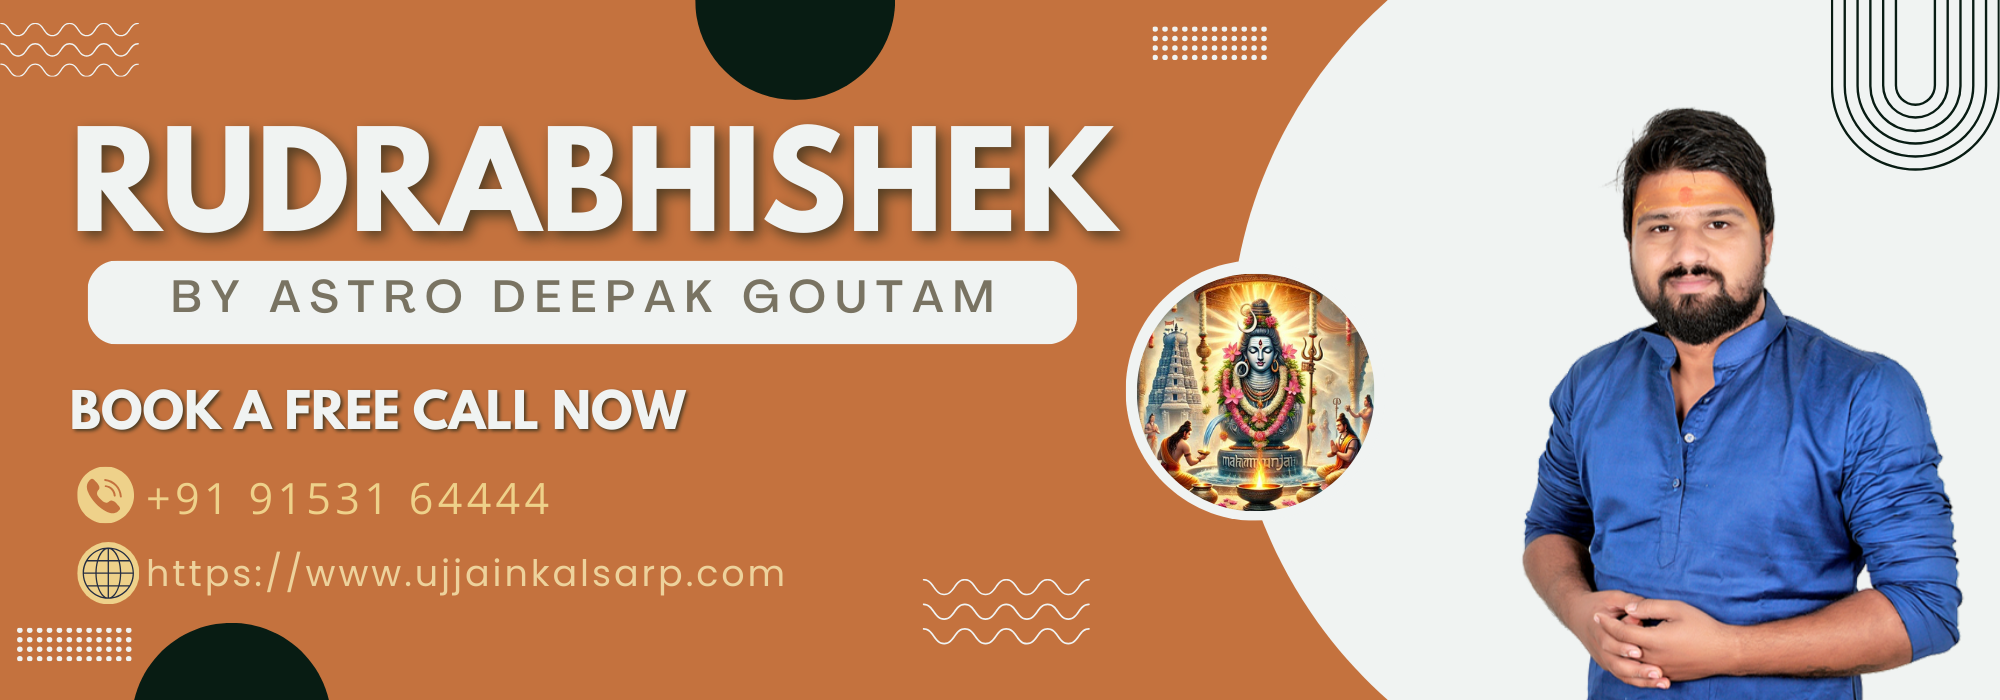
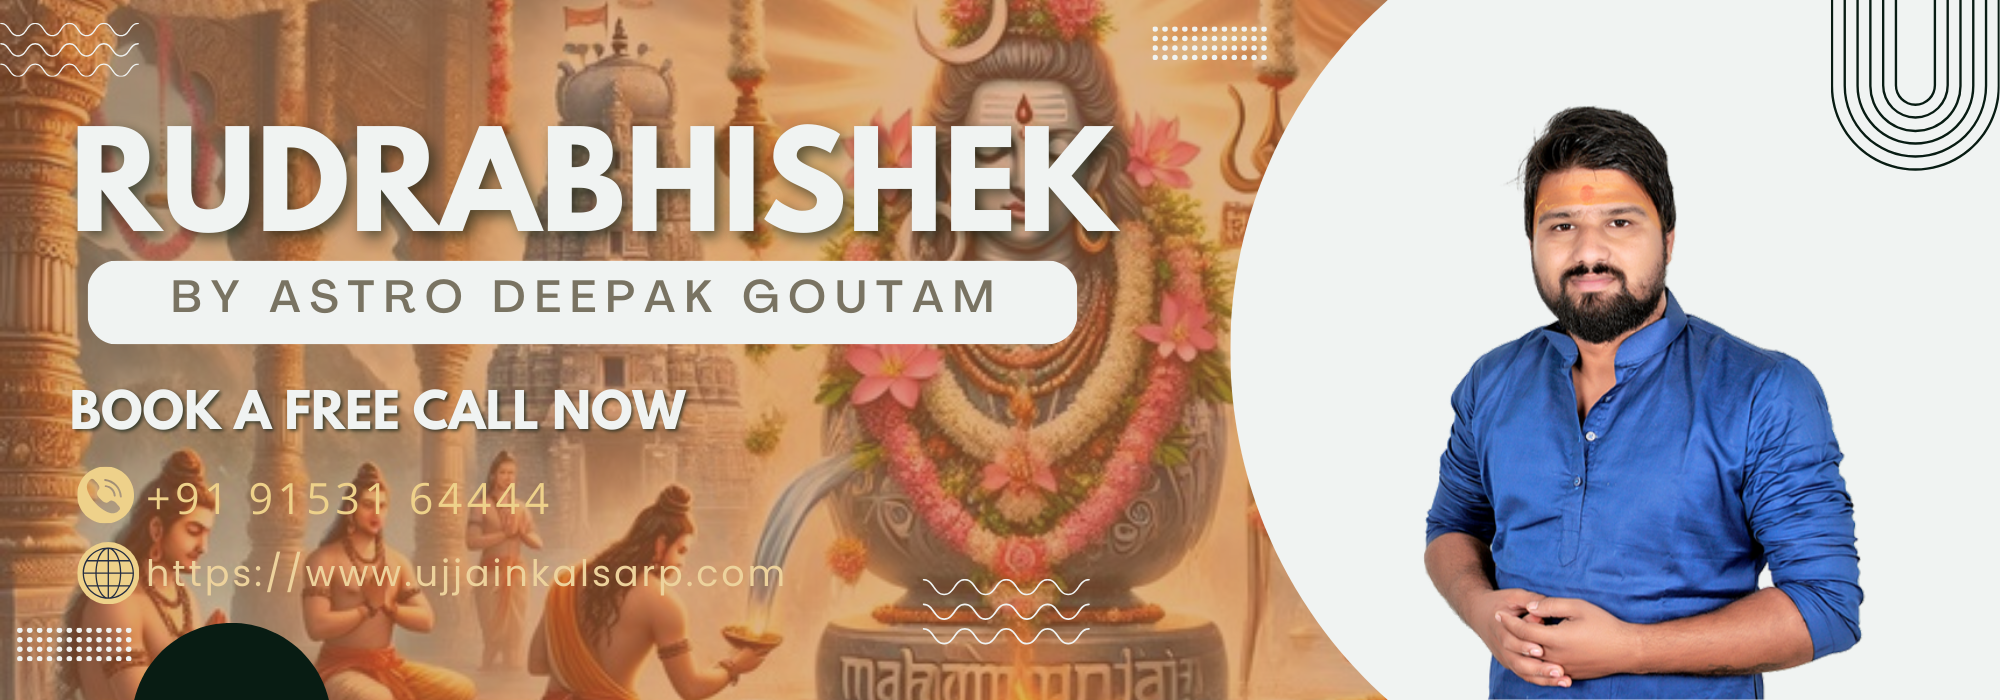
#update

diff --git a/src/components/Banner/index.tsx b/src/components/Banner/index.tsx
@@ -12,6 +12,7 @@ const Banner: React.FC = () => {
     { url: "/images/Banner/banner-2.png", alt: "Banner 2" },
     { url: "/images/Banner/banner-3.png", alt: "Banner 3" },
     { url: "/images/Banner/banner-4.png", alt: "Banner 4" },
+    { url: "/images/Banner/banner-5.png", alt: "Banner 5" },
   ];
 
   const sliderRef = useRef<Slider | null>(null);

diff --git a/src/app/gallery/page.tsx b/src/app/gallery/page.tsx
@@ -32,7 +32,7 @@ export const metadata: Metadata = {
   
 };
 
-const Galary = () => {
+const Gallery = () => {
   return (
     <>
       {/* Breadcrumb - Already Good, Minor Tweak */}
@@ -75,4 +75,4 @@ const Galary = () => {
   );
 };
 
-export default Galary;
+export default Gallery;

diff --git a/src/components/Header/menuData.tsx b/src/components/Header/menuData.tsx
@@ -15,8 +15,8 @@ const menuData: Menu[] = [
   },
   {
     id: 4,
-    title: "About",
-    path: "/about",
+    title: "Gallery",
+    path: "/gallery",
     newTab: false,
   },
   {
